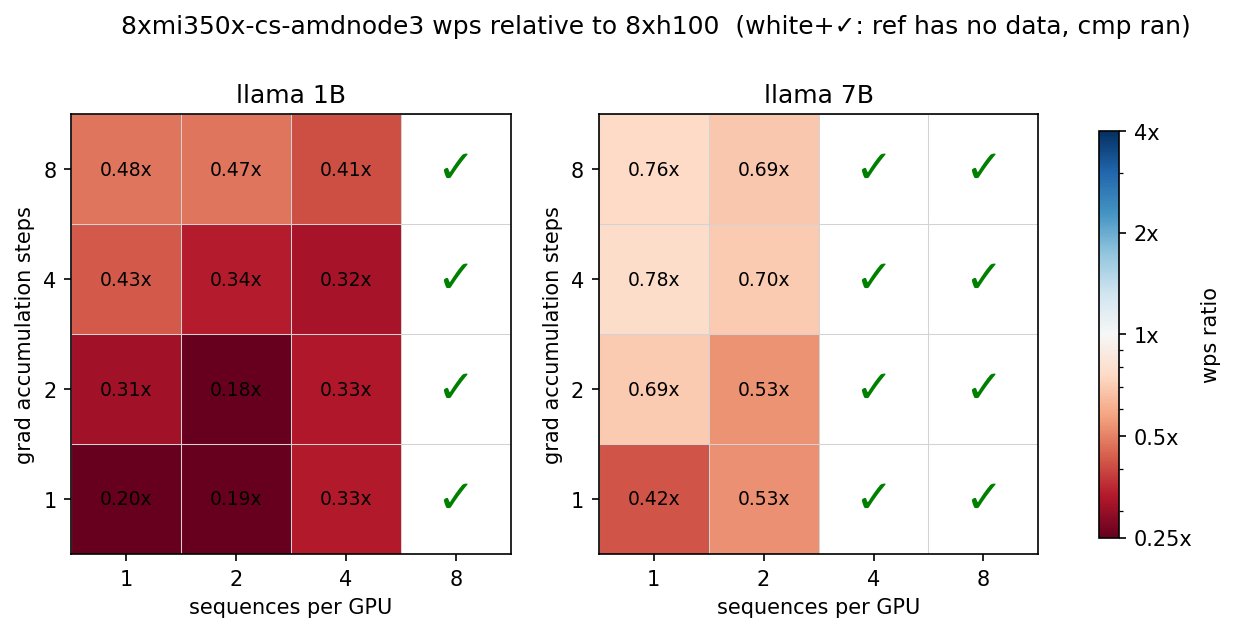
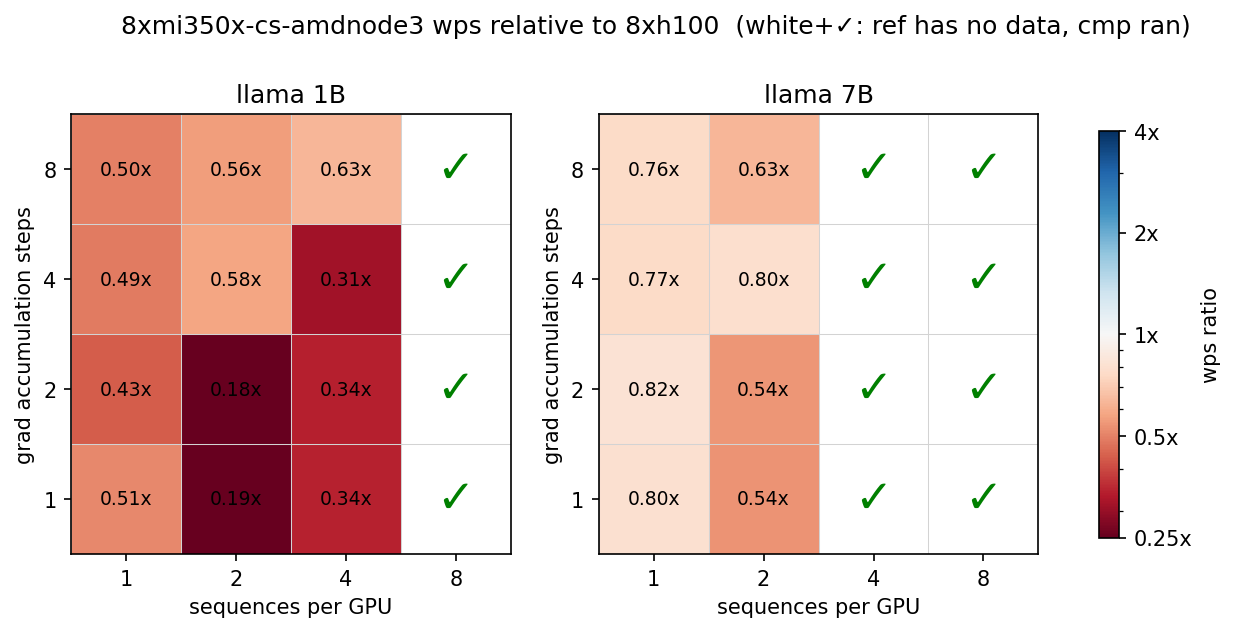
Compare wps at step 10 in speedup heatmaps

diff --git a/lingua/plot_speedup.py b/lingua/plot_speedup.py
@@ -1,4 +1,4 @@
-"""Heatmaps of lingua throughput (wps) of one run relative to a reference run.
+"""Heatmaps of lingua throughput (wps at step 10) of one run relative to a reference run.
 
 Usage: python plot_speedup.py [cmp_dir] [ref_dir ...]
 Writes speedup_<cmp>_vs_<ref>.png per reference. One panel per model size:
@@ -8,7 +8,6 @@ check on it means the comparison run did complete there.
 """
 import json
 import re
-import statistics as st
 import sys
 from pathlib import Path
 
@@ -18,16 +17,17 @@ from matplotlib.colors import LogNorm
 
 cmp_dir = Path(sys.argv[1] if len(sys.argv) > 1 else "8xmi350x-cs-amdnode3")
 refs = [Path(p) for p in (sys.argv[2:] or ["8xh100", "8xmi300x"])]
-WARMUP, LAST = 2, 10  # mean of steps 3-10, same window on both sides
+STEP = 10  # compare wps at this global step on both sides (early steps still warming up)
 BS, GAS = [1, 2, 4, 8], [1, 2, 4, 8]
 
 
 def wps(path):
     if not path.exists():
         return None
-    rows = [json.loads(l) for l in path.read_text().splitlines() if l.strip()]
-    rows = rows[WARMUP:LAST]
-    return st.mean(r["speed/wps"] for r in rows) if rows else None
+    for l in path.read_text().splitlines():
+        if l.strip() and (r := json.loads(l))["global_step"] == STEP:
+            return r["speed/wps"]  # first occurrence, in case the file holds several runs
+    return None
 
 
 def plot(ref):
